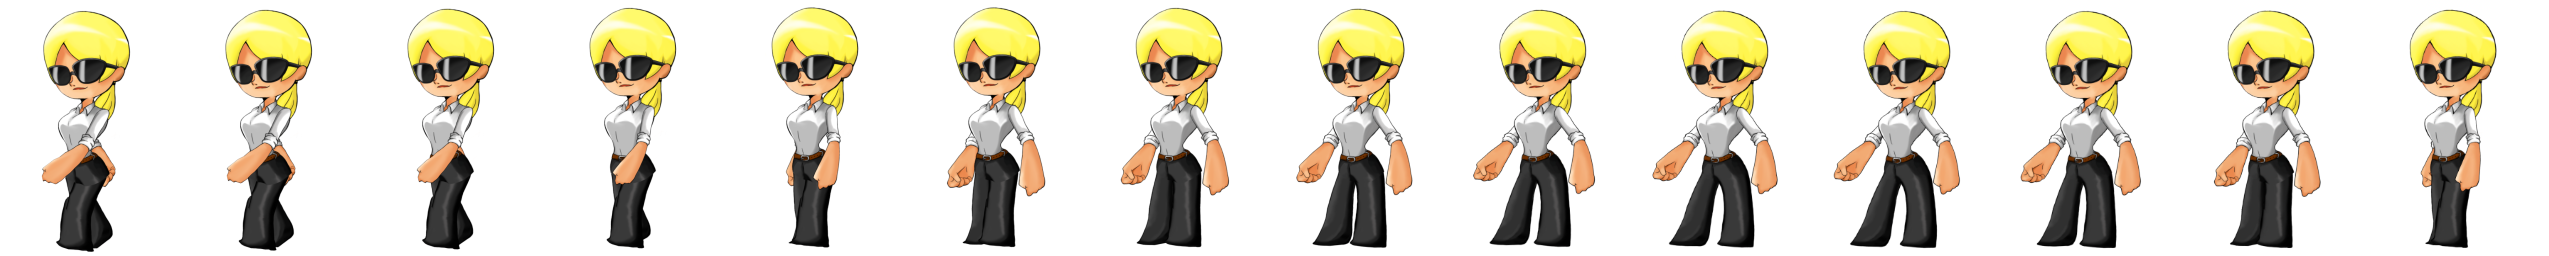
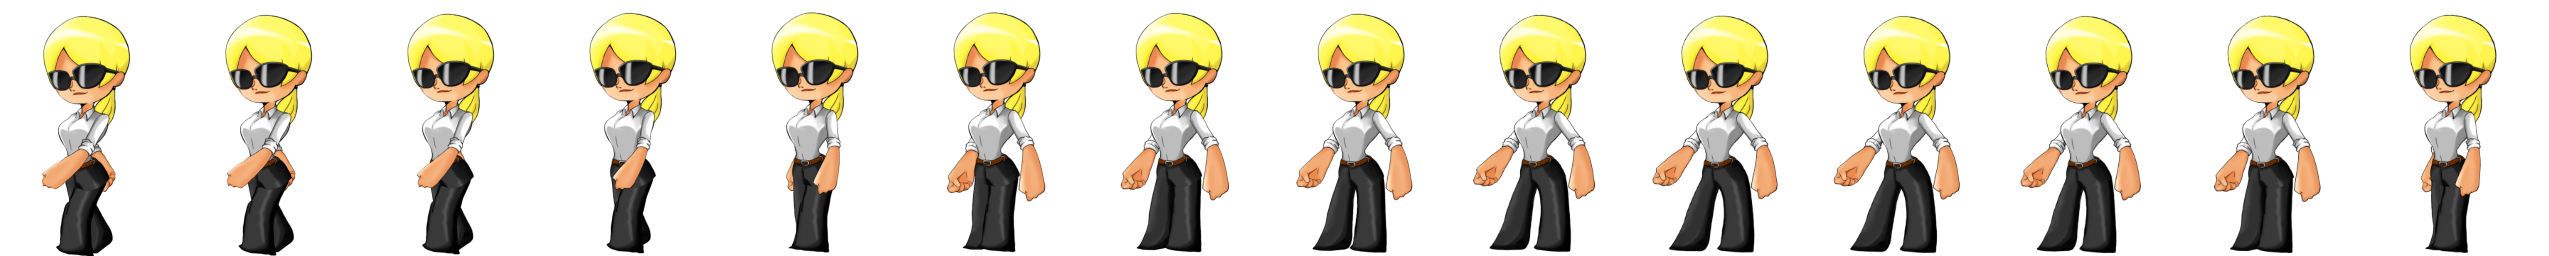
stageselectのlogを追加 キャラクタの画像を若干下にずらした

diff --git a/Solution/Underground_Secret/PhaseStart.cpp b/Solution/Underground_Secret/PhaseStart.cpp
@@ -7,7 +7,7 @@
 #include "SpecialElevator.h"
 
 const float MOVE_FRAME = FPS * 2;
-const int PERFORMANCE_TIME = FPS * 2;
+const int PERFORMANCE_TIME = FPS;
 const float FOCUS_FRAME = FPS * 1;
 
 PhaseStart::PhaseStart( std::list< CharacterPtr > &chara, MapPtr map, SpecialScrollPtr scroll ) :
